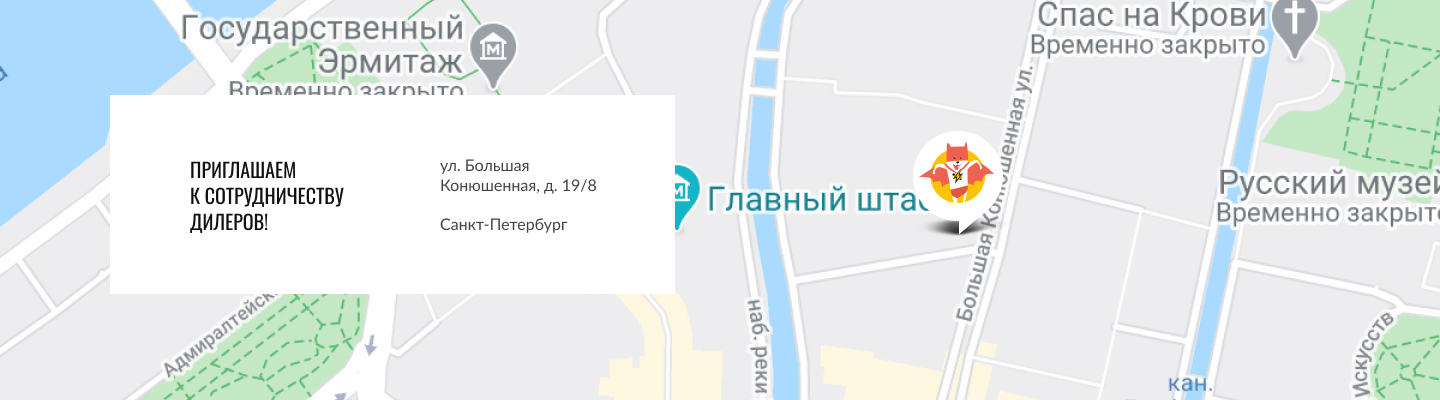
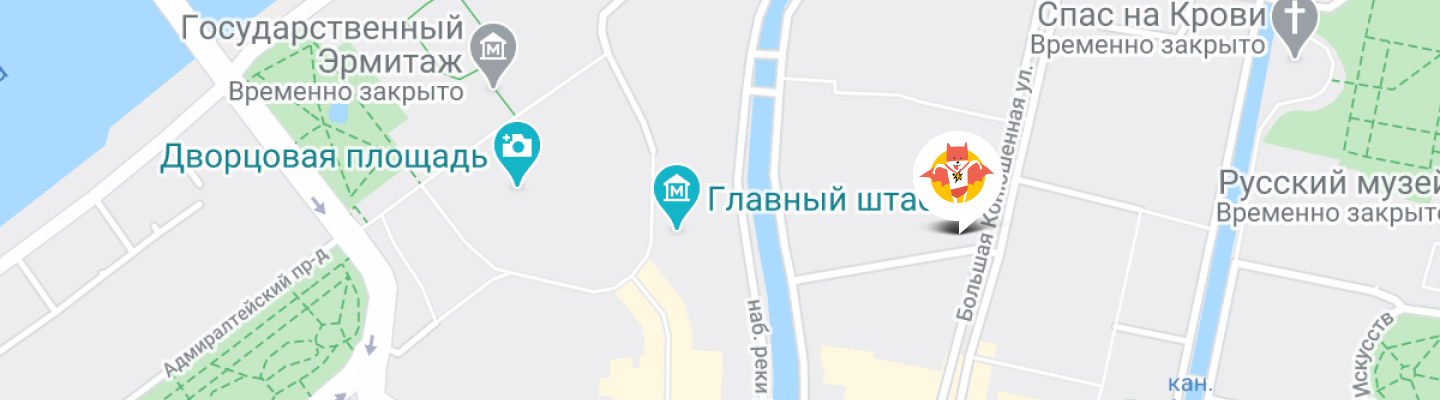
делает правки

diff --git a/source/index.html b/source/index.html
@@ -44,9 +44,9 @@
       <h1 class="wrapper__title">Функциональное<br>питание для котов</h1>
       <p class="wrapper__text">Занялся собой? Займись котом!</p>
       <picture>
-      <source media="(min-width: 1200px)" srcset="img/images/general-img-desktop.jpg 1x, img/images/general-img-desktop@2x.jpg 2x">
-      <source media="(min-width: 768px)" srcset="img/images/general-img-tablet.jpg 1x, img/images/general-img-tablet@2x.jpg 2x">
-      <img class="wrapper-image" src="img/images/general-img.jpg" srcset="img/images/general-img@2x.jpg 2x" width="280" height="270" alt="Корм для котов">
+      <source media="(min-width: 1200px)" srcset="img/images/general-img-desktop.png 1x, img/images/general-img-desktop@2x.png 2x">
+      <source media="(min-width: 768px)" srcset="img/images/general-img-tablet.png 1x, img/images/general-img-tablet@2x.png 2x">
+      <img class="wrapper-image" src="img/images/general-img.png" srcset="img/images/general-img@2x.png 2x" width="280" height="270" alt="Корм для котов">
       </picture>
       <a class="wrapper__button" href="#">Подобрать программу</a>
 
@@ -112,7 +112,7 @@
       </ul>
     </article>
 
-
+   <div class="main-container__examples-div">
     <article class="main-container__examples examples container">
       <h2 class="examples__title">Живой пример</h2>
       <p class="examples__text">Борис сбросил 5 кг за 2 месяца, просто заменив свой обычный корм на Cat Energy Slim.
@@ -133,55 +133,43 @@
       </div>
 
       <picture>
-        <source media="(min-width: 768px)" srcset="img/images/cat-before-tablet.jpg 1x, img/images/cat-before-tablet@2x.jpg 2x">
-        <img src="img/images/cat-before.jpg" srcset="img/images/cat-before@2x.jpg 2x" width="280" height="256" alt="кот до диеты"></a>
+        <source media="(min-width: 768px)" srcset="img/images/cat-before-tablet.png 1x, img/images/cat-before-tablet@2x.png 2x">
+        <img src="img/images/cat-before.png" srcset="img/images/cat-before@2x.png 2x" width="280" height="256" alt="кот до диеты"></a>
       </picture>
 
       <picture>
-        <source media="(min-width: 768px)" srcset="img/images/cat-after-tablet.jpg 1x, img/images/cat-after-tablet@2x.jpg 2x">
-        <img src="img/images/cat-after.jpg" srcset="img/images/cat-after@2x.jpg 2x" width="280" height="256" alt="кот до диеты"></a>
+        <source media="(min-width: 768px)" srcset="img/images/cat-after-tablet.png 1x, img/images/cat-after-tablet@2x.png 2x">
+        <img src="img/images/cat-after.png" srcset="img/images/cat-after@2x.png 2x" width="280" height="256" alt="кот до диеты"></a>
       </picture>
-
     </article>
-
+</div>
   </main>
 
   <footer class="footer">
-
-  <div class="footer__img-footer-address">
-
-    <picture>
-      <source media="(min-width: 1200px)" srcset="img/images/map-footer-desktop.jpg 1x, img/images/map-footer-desktop@2x.jpg 2x">
-      <source media="(min-width: 768px)" srcset="img/images/map-footer-tablet.jpg 1x, img/images/map-footer-tablet@2x.jpg 2x">
-      <img src="img/images/map-footer.jpg" srcset="img/images/map-footer@2x.jpg 2x" width="320" height="362" alt="карта расположения"></a>
-    </picture>
-
-      <div class="footer__div-footer-address_">
-
-    <div class="footer__footer-address">
-      <p class="footer__heading">приглашаем к сотрудничеству <br> дилеров!</p>
-      <p class="footer__text">ул. Большая Конюшенная, д. 19/8 <br> Санкт-Петербург</p>
-    </div>
+    <div class="footer__img-footer-address">
+      <div class="container map__container">
+        <div class="footer__footer-address">
+          <p class="footer__heading">приглашаем к сотрудничеству <br> дилеров!</p>
+          <p class="footer__text">ул. Большая Конюшенная, д. 19/8 <br> Санкт-Петербург</p>
+        </div>
+      </div>
+      <picture>
+        <source media="(min-width: 1200px)" srcset="img/images/map-footer-desktop.jpg 1x, img/images/map-footer-desktop@2x.jpg 2x">
+        <source media="(min-width: 768px)" srcset="img/images/map-footer-tablet.jpg 1x, img/images/map-footer-tablet@2x.jpg 2x">
+        <img class="footer__map" src="img/images/map-footer.jpg" srcset="img/images/map-footer@2x.jpg 2x" width="320" height="362" alt="карта расположения"></a>
+      </picture>
 
     </div>
-
-  </div>
-
-
-    <div class="footer__social">
-
     <div class="footer__div container">
-    <img src="img/images/logo-2.svg" width="128" height="24" alt="cat energy">
-    <ul class="footer__social-list social-list">
-      <li class="social-list__item"><a class="social__link" href="">Вконтакте</a></li>
-      <li class="social-list__item"><a class="social__link" href="">Ютуб</a></li>
-      <li class="social-list__item"><a class="social__link" href="">Телеграм</a></li>
-    </ul>
-    <a class="footer__logo-htmlacademy" href="#">HTML Academy</a>
+        <a class="footer__copyright" href="#"><img src="img/images/logo-2.svg" width="128" height="24" alt="cat energy"></a>
+        <ul class="footer__social-list social-list">
+          <li class="social-list__item"><a class="social__link" href="">Вконтакте</a></li>
+          <li class="social-list__item"><a class="social__link" href="">Ютуб</a></li>
+          <li class="social-list__item"><a class="social__link" href="">Телеграм</a></li>
+        </ul>
+        <a class="footer__logo-htmlacademy" href="#">HTML Academy</a>
     </div>
-    </div>
-  </footer>
-
+</footer>
 <script src="js/script.js"></script>
 </body>
 </html>

diff --git a/source/less/blocks/form-item.less b/source/less/blocks/form-item.less
@@ -1,6 +1,18 @@
 .form-item {
   display: flex;
-  margin-bottom: 13px;
+  margin-bottom: 14px;
+
+  &:last-child {
+    margin-bottom: 0;
+  }
+
+  @media (min-width: @tablet-width) {
+    margin-bottom: 20px;
+
+    &:last-child {
+      margin-bottom: 0;
+    }
+  }
 }
 
 .form-item__form-text {
@@ -41,14 +53,19 @@
     }
 }
 
+.form-item__radio {
+  @media (min-width: @tablet-width) {
+    margin-bottom: 13px;
+  }
+}
+
   .form-item__form-text-radio {
   position: relative;
   padding-left: 45px;
   padding-bottom: 13px;
-  background-color: #68B738;
 
   @media (min-width: @tablet-width) {
-  padding-bottom: 18px;
+  padding-bottom: 5px;
   padding-left: 87px;
   }
 
@@ -59,8 +76,8 @@
   &::before {
   content: "";
   position: absolute;
-  top: -23%;
-  left: -45px;
+  top: 2px;
+  left: 0;
   width: 30px;
   height: 30px;
   display: block;
@@ -73,8 +90,8 @@
   &::after {
   content: "";
   position: absolute;
-  top: 15%;
-  left: -37px;
+  top: 10px;
+  left: 9px;
   width: 13px;
   height: 13px;
   display: block;

diff --git a/source/less/blocks/footer.less b/source/less/blocks/footer.less
@@ -1,10 +1,12 @@
+.footer__img-footer-address {
+position: relative;
+min-height: 400px;
+}
+
 .footer__footer-address {
   display: flex;
-  background-color: #F2F2F2;
+  background-color: #ffffff;
   padding: 26px 20px;
-  top: 50%;
-  left: 0;
-  transform: translateY(50%);
 
 
   @media (min-width: @tablet-width) {
@@ -14,16 +16,19 @@
   @media (min-width: @desktop-width) {
     padding: 60px 74px;
     background-color: #ffffff;
-    position: absolute;
     display: block;
-    top: 225%;
-    left: -12%;
-    z-index: 1;
-    transform: translate(50%);
     width: 565px;
     display: flex;
     gap: 87px;
   }
+}
+
+.footer__map {
+width: 100%;
+
+@media (min-width: @desktop-width) {
+  position: absolute;
+}
 }
 
 .footer__heading {
@@ -53,10 +58,6 @@
     font-size: 16px;
     line-height: 20px;
   }
-}
-
-.footer-social {
-  position: relative;
 }
 
 .footer__div {
@@ -89,8 +90,4 @@
   width: 100%;
 }
 
-.footer__div-footer-address {
-  position: relative;
-  margin: 0 auto;
-  max-width: 1280px;
-}
+

diff --git a/source/less/blocks/wrapper.less b/source/less/blocks/wrapper.less
@@ -2,7 +2,6 @@
   display: grid;
   background: rgba(255, 255, 255, 0.8) linear-gradient(to bottom, transparent 0%, #68B738D9 0%, #68B738D9 65%, transparent 65%);
   margin-bottom: 20px;
-  margin: 0;
 
   @media (min-width: @tablet-width) {
     background: none;
@@ -10,6 +9,7 @@
   }
 
   @media (min-width: @desktop-width) {
+    width: 1330px;
     grid-template-columns: 1fr 1fr;
     grid-template-rows: auto auto 54px;
     margin-top: 29px;
@@ -69,6 +69,9 @@
 }
 
 .wrapper-image {
+  display: block;
+  margin-left: auto;
+  margin-right: auto;
   justify-self: center;
   margin-top: 29px;
 

diff --git a/source/less/blocks/advantages.less b/source/less/blocks/advantages.less
@@ -1,12 +1,16 @@
 .advantages {
   display: flex;
   flex-direction: column;
-  margin: 20px 0;
+  margin-top: 20px;
+  margin-bottom: 20px;
   gap: 20px;
 
   @media (min-width: @desktop-width) {
     display: flex;
     flex-direction: revert;
+    gap: 80px;
+    margin-top: 82px;
+    margin-bottom: 71px;
   }
 }
 

diff --git a/source/less/blocks/blank.less b/source/less/blocks/blank.less
@@ -2,8 +2,14 @@
   border: none;
   padding: 0;
   margin: 0;
+  margin-bottom: 24px;
+
+  @media (min-width: @tablet-width) {
+  margin-bottom: 0;
+  }
 
   @media (min-width: @desktop-width) {
-    min-width: 570px;
+  min-width: 570px;
+
   }
 }

diff --git a/source/less/blocks/catalog-products.less b/source/less/blocks/catalog-products.less
@@ -37,7 +37,11 @@
   @media (min-width: @tablet-width) {
   display: flex;
   flex-wrap: wrap;
-  gap: 80px;
+  gap: 60px;
+  }
+
+  @media (min-width: @desktop-width) {
+  width: 1220px;
   }
 }
 

diff --git a/source/less/blocks/radio.less b/source/less/blocks/radio.less
@@ -13,6 +13,7 @@
 
   @media (min-width: @desktop-width) {
   margin: 0;
+  margin-left: 80px;
   padding: 25px 28px;
   width: 570px;;
   }

diff --git a/source/less/blocks/examples.less b/source/less/blocks/examples.less
@@ -61,6 +61,7 @@
   @media (min-width: @desktop-width) {
     display: flex;
     flex-direction: column;
+    grid-column: 1/2;
   }
 }
 

diff --git a/source/js/script.js b/source/js/script.js
@@ -12,5 +12,3 @@ navButton.addEventListener('click', function () {
     navHeader.classList.remove('nav--opened');
   }
 });
-
-

diff --git a/source/less/blocks/main-container.less b/source/less/blocks/main-container.less
@@ -1,0 +1,3 @@
+.main-container__examples-div {
+  background-color: #eaeaea;
+}
